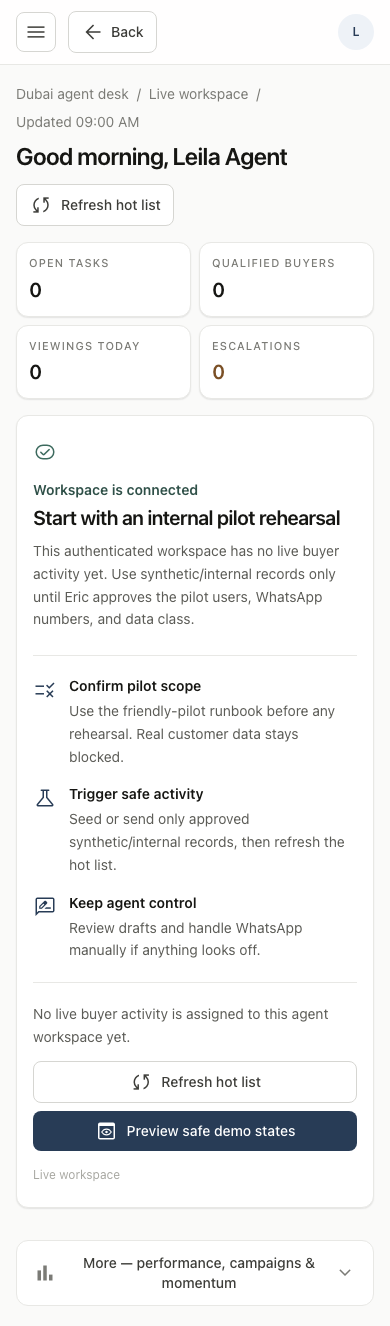
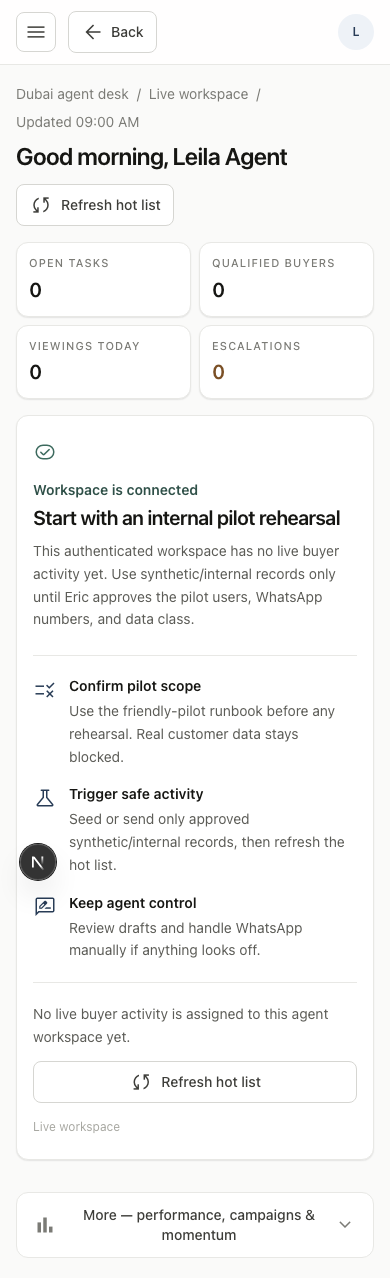
fix(agent): gate first-run clear-day copy

diff --git a/frontend/src/components/agent-dashboard/DayIsClear.tsx b/frontend/src/components/agent-dashboard/DayIsClear.tsx
@@ -19,6 +19,8 @@ export function DayIsClear({
   refreshState,
   onRefreshHotList,
 }: DayIsClearProps) {
+  const showsFirstRunActivation = Boolean(emptyState)
+
   return (
     <section className="rounded-lg border border-neutral-200 bg-white px-4 py-6 shadow-card-sm sm:px-6 sm:py-8">
       <div className="flex flex-col gap-4 sm:flex-row sm:items-start">
@@ -26,32 +28,35 @@ export function DayIsClear({
         <div className="min-w-0 flex-1">
           <p className="text-sm font-semibold text-success-700">Workspace is connected</p>
           <h2 className="mt-1 text-xl font-semibold tracking-tight text-neutral-900">
-            Start with an internal pilot rehearsal
+            {showsFirstRunActivation ? 'Start with an internal pilot rehearsal' : 'Your day is clear'}
           </h2>
           <p className="mt-2 max-w-2xl text-sm leading-relaxed text-neutral-600">
-            {emptyState ? 'This authenticated workspace has no live buyer activity yet.' : 'Your day is clear.'}{' '}
-            Use synthetic/internal records only until Eric approves the pilot users, WhatsApp numbers, and data class.
+            {showsFirstRunActivation
+              ? 'This authenticated workspace has no live buyer activity yet. Use synthetic/internal records only until Eric approves the pilot users, WhatsApp numbers, and data class.'
+              : 'No urgent buyer replies, hot signals, drafts, viewings, or escalations are waiting right now.'}
           </p>
         </div>
       </div>
 
-      <div className="mt-6 grid gap-4 border-y border-neutral-200 py-5 md:grid-cols-3">
-        <FirstRunStep
-          icon="rule"
-          label="Confirm pilot scope"
-          detail="Use the friendly-pilot runbook before any rehearsal. Real customer data stays blocked."
-        />
-        <FirstRunStep
-          icon="science"
-          label="Trigger safe activity"
-          detail="Seed or send only approved synthetic/internal records, then refresh the hot list."
-        />
-        <FirstRunStep
-          icon="rate_review"
-          label="Keep agent control"
-          detail="Review drafts and handle WhatsApp manually if anything looks off."
-        />
-      </div>
+      {showsFirstRunActivation && (
+        <div className="mt-6 grid gap-4 border-y border-neutral-200 py-5 md:grid-cols-3">
+          <FirstRunStep
+            icon="rule"
+            label="Confirm pilot scope"
+            detail="Use the friendly-pilot runbook before any rehearsal. Real customer data stays blocked."
+          />
+          <FirstRunStep
+            icon="science"
+            label="Trigger safe activity"
+            detail="Seed or send only approved synthetic/internal records, then refresh the hot list."
+          />
+          <FirstRunStep
+            icon="rate_review"
+            label="Keep agent control"
+            detail="Review drafts and handle WhatsApp manually if anything looks off."
+          />
+        </div>
+      )}
 
       <div className="mt-5 flex flex-col gap-3 sm:flex-row sm:items-center sm:justify-between">
         <p className="text-sm leading-relaxed text-neutral-600">
@@ -72,13 +77,6 @@ export function DayIsClear({
             <span className="material-symbols-outlined text-[18px]" aria-hidden="true">sync</span>
             {refreshState === 'working' ? 'Refreshing' : 'Refresh hot list'}
           </button>
-          <a
-            href="/component-showcase"
-            className="inline-flex min-h-10 items-center justify-center gap-2 rounded-md bg-brand-700 px-3 py-2 text-sm font-medium text-white transition-colors hover:bg-brand-800"
-          >
-            <span className="material-symbols-outlined text-[18px]" aria-hidden="true">preview</span>
-            Preview safe demo states
-          </a>
         </div>
       </div>
       <p className="mt-4 text-xs text-neutral-400">{sourceLabel}</p>

diff --git a/.omo/evidence/task-12-pr66-follow-up.md b/.omo/evidence/task-12-pr66-follow-up.md
@@ -1,0 +1,52 @@
+# Task 12 PR #66 Follow-Up Evidence
+
+Date: 2026-06-23
+Branch: `codex/agent-first-run-activation`
+Starting head: `2803c3593c105fb11773a7297f7c0b03467f7239`
+
+## Fixed Blockers
+
+1. First-run/internal-pilot activation copy is gated to explicit dashboard API `empty_state`.
+   - Scenario: mocked authenticated `/agent` API returns `sample_data: false`, empty operational arrays, zero metrics, and `empty_state.reason = no_workspace_activity`.
+   - Invocation: `cd frontend && node scripts/verify-task-next-first-run-state.mjs`.
+   - Binary observable: 15 checks passed; empty workspace includes `Start with an internal pilot rehearsal`, `synthetic/internal records only`, `Refresh hot list`, no fake operational row leaks, and no `Preview safe demo states` or `/component-showcase` leak.
+   - Captured artifact: `.omo/evidence/task-12-first-run-state/functional-transcript.json`.
+
+2. Normal live zero-queue dashboard without API `empty_state` remains neutral.
+   - Scenario: mocked authenticated `/agent` API returns `sample_data: false`, empty operational arrays, zero metrics, and no `empty_state`.
+   - Invocation: `cd frontend && node scripts/verify-task-next-first-run-state.mjs`.
+   - Binary observable: 15 checks passed; live zero-queue body includes `Your day is clear` and neutral no-queue copy, while excluding `Start with an internal pilot rehearsal`, `synthetic/internal records only`, `Confirm pilot scope`, `data class`, `Preview safe demo states`, and fake operational row markers.
+   - Captured artifact: `.omo/evidence/task-12-first-run-state/functional-transcript.json`.
+
+3. Connection error still has retry/manual fallback.
+   - Scenario: mocked authenticated `/agent` dashboard API returns HTTP 503.
+   - Invocation: `cd frontend && node scripts/verify-task-next-first-run-state.mjs`.
+   - Binary observable: 15 checks passed; error body includes `Retry`, `Manual fallback`, `Use WhatsApp directly`, and zero fake operational row leaks.
+   - Captured artifact: `.omo/evidence/task-12-first-run-state/functional-transcript.json`.
+
+4. Visual empty-state QA remains clean after removing the demo CTA.
+   - Scenario: mocked authenticated first-run empty workspace rendered at 1280x900 and 390x900.
+   - Invocation: `cd frontend && node scripts/verify-task-next-first-run-visual.mjs --desktop ../.omo/evidence/task-12-first-run-desktop.png --mobile ../.omo/evidence/task-12-first-run-mobile.png`.
+   - Binary observable: 6 checks passed; both viewports have zero fake operational row leaks, no horizontal overflow, and no fake-operational demo preview link.
+   - Captured artifacts: `.omo/evidence/task-12-first-run-desktop.png`, `.omo/evidence/task-12-first-run-mobile.png`, `.omo/evidence/task-12-first-run-state/visual-transcript.json`.
+
+5. Static and backend safety checks passed.
+   - Scenario: frontend typecheck.
+   - Invocation: `cd frontend && npx --no-install tsc --noEmit`.
+   - Binary observable: exited 0.
+   - Captured artifact: Codex command transcript.
+   - Scenario: backend empty-state contract regression.
+   - Invocation: `python3 tests/test_agent_dashboard_empty_state.py`.
+   - Binary observable: exited 0.
+   - Captured artifact: Codex command transcript.
+   - Scenario: whitespace and conflict-marker safety.
+   - Invocation: `git diff --check`; `rg -n "<<<<<<<|=======|>>>>>>>" <changed Task 12 paths>`.
+   - Binary observable: `git diff --check` exited 0; conflict-marker scan exited 1 with no matches.
+   - Captured artifact: Codex command transcript.
+
+## Safety
+
+- No fake authenticated live buyer, offer, task, queue, phone, amount, or escalation rows were added.
+- No owner dashboard expansion, API contract change, Task 13 work, dependency/lockfile edit, migration, RLS/role/grant change, live write, external DB test, or production/staging env-file read occurred.
+- `cd frontend && npm run build` was not run because `frontend/.env.local` exists and the env-file guard marks that path blocked.
+- PR body was updated to remove the stale internal demo-state preview claim.

diff --git a/.omo/evidence/task-12-dalya-next-mvp-readiness-plan.md b/.omo/evidence/task-12-dalya-next-mvp-readiness-plan.md
@@ -7,7 +7,8 @@ Tracking: `.omo/evidence/task-12-tracking-dalya-next-mvp-readiness-plan.json`
 ## Scope
 
 - Improved authenticated `/agent` empty workspace UI without adding live sample buyer, offer, queue, phone, amount, task, or escalation rows.
-- Added safe first-run guidance for synthetic/internal pilot rehearsal, visible `Refresh hot list`, and an explicit internal demo-state preview link.
+- Added safe first-run guidance for synthetic/internal pilot rehearsal and visible `Refresh hot list` for explicit API empty states, without linking to fake operational demo rows.
+- Preserved a neutral clear-day state for live zero-queue dashboards that do not include API `empty_state`.
 - Added connection error manual fallback guidance: retry the dashboard API or use WhatsApp directly until the workspace reconnects.
 - Updated the focused backend empty-state test harness import stubs only; the authenticated dashboard API empty-state contract was not changed.
 
@@ -16,28 +17,34 @@ Tracking: `.omo/evidence/task-12-tracking-dalya-next-mvp-readiness-plan.json`
 1. Empty authenticated workspace contains no fake buyer records but gives a clear safe next step.
    - Scenario: mocked authenticated `/agent` API returns `sample_data: false`, empty arrays, zero metrics, and `empty_state.reason = no_workspace_activity`.
    - Invocation: `cd frontend && node scripts/verify-task-next-first-run-state.mjs`.
-   - Binary observable: 11 checks passed; verifier asserts `Start with an internal pilot rehearsal`, `synthetic/internal records only`, `Preview safe demo states`, `Refresh hot list`, and zero `fakeOperationalTexts` leaks.
+   - Binary observable: 15 checks passed; verifier asserts `Start with an internal pilot rehearsal`, `synthetic/internal records only`, `Refresh hot list`, no `Preview safe demo states` or `/component-showcase` leak, and zero `fakeOperationalTexts` leaks.
    - Captured artifact: `.omo/evidence/task-12-first-run-state/functional-transcript.json`.
 
-2. RED proof captured the prior weak first-run/error state.
+2. Normal live zero-queue dashboard stays neutral without first-run/internal-pilot copy.
+   - Scenario: mocked authenticated `/agent` API returns `sample_data: false`, empty arrays, zero metrics, and no `empty_state`.
+   - Invocation: `cd frontend && node scripts/verify-task-next-first-run-state.mjs`.
+   - Binary observable: verifier asserts `Your day is clear`, neutral no-queue explanation, no `Start with an internal pilot rehearsal`, no `synthetic/internal records only`, no `Confirm pilot scope`, no `data class`, no `Preview safe demo states`, and zero `fakeOperationalTexts` leaks.
+   - Captured artifact: `.omo/evidence/task-12-first-run-state/functional-transcript.json`.
+
+3. RED proof captured the prior weak first-run/error state.
    - Scenario: same mocked authenticated empty/error workspace before UI changes.
    - Invocation: `cd frontend && node scripts/verify-task-next-first-run-state.mjs --red`.
    - Binary observable: 3 RED checks passed by proving the old empty workspace lacked internal-pilot activation/demo action and the old error state lacked a named manual fallback.
    - Captured artifact: `.omo/evidence/task-12-first-run-state/functional-red-transcript.json`.
 
-3. Connection error state gives retry/manual fallback.
+4. Connection error state gives retry/manual fallback.
    - Scenario: authenticated `/agent` dashboard API mocked as HTTP 503.
    - Invocation: `cd frontend && node scripts/verify-task-next-first-run-state.mjs`.
    - Binary observable: verifier asserts `Retry`, `Manual fallback`, `Use WhatsApp directly`, and zero fake operational row leaks.
    - Captured artifact: `.omo/evidence/task-12-first-run-state/functional-transcript.json`.
 
-4. Visual QA confirms mobile/desktop layout without text overlap.
+5. Visual QA confirms mobile/desktop layout without text overlap.
    - Scenario: authenticated empty workspace rendered at 1280x900 and 390x900.
    - Invocation: `cd frontend && node scripts/verify-task-next-first-run-visual.mjs --desktop ../.omo/evidence/task-12-first-run-desktop.png --mobile ../.omo/evidence/task-12-first-run-mobile.png`.
-   - Binary observable: 6 visual verifier checks passed; each viewport asserted zero fake operational row leaks, no horizontal overflow, and visible safe demo action.
+   - Binary observable: 6 visual verifier checks passed; each viewport asserted zero fake operational row leaks, no horizontal overflow, and no fake-operational demo preview link.
    - Captured artifacts: `.omo/evidence/task-12-first-run-desktop.png`, `.omo/evidence/task-12-first-run-mobile.png`, `.omo/evidence/task-12-first-run-state/visual-transcript.json`.
 
-5. Authenticated dashboard empty-state API contract remains stable.
+6. Authenticated dashboard empty-state API contract remains stable.
    - Scenario: no-DB focused backend test stubs all dashboard sources as empty.
    - Invocation: `python3 tests/test_agent_dashboard_empty_state.py`.
    - Binary observable: exited 0; asserts `sample_data is False`, zero metrics, all operational arrays empty, and no forbidden sample markers in the payload text.

diff --git a/BACKLOG.md b/BACKLOG.md
@@ -155,7 +155,7 @@ Spec/docs only — **no runtime code changed**, safe parallel work while DAL-172
 - [x] **Task 9B: Add bounded DealReadiness ranking input.** Hot-list scoring now applies a bounded DealReadiness input only for strongly actionable hot/viewing-ready/offer-ready profiles with budget and financing resolved. Existing urgency remains the base score, missing or malformed readiness fields add no boost, and viewing/offer-ready buyers can outrank merely recent low-readiness buyers. The readiness metadata contract deliberately moved from `shadow_read_only` to `ranking_input` with `base_urgency_score`, `ranking_delta`, `ranked_urgency_score`, and `ranking_reason`; it remains out of thresholds, task creation, drafts, notifications, and sends. Local-only tracking was used via `.omo/evidence/task-9b-tracking-dalya-next-mvp-readiness-plan.json`. Verification: focused Task 9B pytest, DAL-173C6/173B regressions, `py_compile`, `git diff --check`, and conflict-marker scan. No production/staging DDL, migrations, RLS, env-file reads, external DB tests, live writes, dependency/lockfile edits, task spam, autonomous sends, merge, or Task 10 work occurred.
 - [x] **Task 10: Make needs_reply intent and priority aware.** `/api/v1/agent/dashboard` now classifies the latest buyer message with the existing rule-based intent path plus deterministic acknowledgement/process-question rules, emits `needs_reply_intent`, `needs_reply_priority`, and `needs_reply_priority_score`, and ranks high-intent viewing, offer, document, and process questions above polite acknowledgements. Open escalations suppress duplicate low-priority needs-reply urgency only when the represented latest buyer message is low-intent; a new concrete buyer question after the thread remains actionable. Today Queue keeps the server priority as its display-order tiebreaker. Local-only tracking was used via `.omo/evidence/task-10-tracking-dalya-next-mvp-readiness-plan.json`. Verification: `py_compile`, frontend priority verifier, `npx tsc --noEmit`, `git diff --check`, and conflict-marker scan. Focused pytest/runtime regression is blocked locally because system Python lacks `pytest`, the repo venv Python symlink is broken, full pinned install fails on `pymupdf==1.24.0`, the Python 3.14-compatible subset fails on pinned `pydantic-core==2.23.2`, and no Python 3.12/3.13 binary is available. No broad LLM dependency, hidden true unanswered buyer questions, cross-tenant visibility change, production/staging DDL, migrations, RLS, env-file reads, external DB tests, live writes, dependency/lockfile edits, merge, or Task 11 work occurred.
 - [x] **Task 11: Upgrade handoff summaries and exact action cards.** Today Queue rows and escalation inbox rows now show structured 15-second handoff cards with buyer intent, known readiness fields, missing blockers, one suggested action, exact work surface route, and source. Generic queue `Open` links were replaced with concrete action text derived from the same handoff summary. Offer-intent rows explicitly stay agent review/counter guidance only, with no autonomous negotiation or new send behavior. Local-only tracking was used via `.omo/evidence/task-11-tracking-dalya-next-mvp-readiness-plan.json`. Verification: rendered frontend handoff verifier, visual screenshot `.omo/evidence/task-11-handoff-cards.png`, `npx tsc --noEmit`, backend assist regression, `git diff --check`, and conflict-marker scan. `npm run build` was not rerun after the follow-up because `frontend/.env.local` exists and the env-file guard treats that build path as blocked. No auth/tenant visibility change, production/staging DDL, migrations, RLS, env-file reads, external DB tests, live writes, dependency/lockfile edits, autonomous send, autonomous negotiation, merge, or Task 12 work occurred.
-- [x] **Task 12: Add first-run activation and stronger empty/error states.** Authenticated empty `/agent` workspaces now show a first-run activation path for approved synthetic/internal pilot rehearsal, keep `Refresh hot list` visible, and link only to an explicit internal demo-state preview instead of rendering fake buyer rows. Dashboard connection failures now include retry plus a manual WhatsApp fallback note. Local-only tracking was used via `.omo/evidence/task-12-tracking-dalya-next-mvp-readiness-plan.json`. Verification: RED/GREEN first-run browser verifier, desktop and mobile screenshots `.omo/evidence/task-12-first-run-desktop.png` and `.omo/evidence/task-12-first-run-mobile.png`, `npx --no-install tsc --noEmit`, `python3 tests/test_agent_dashboard_empty_state.py`, `git diff --check`, and conflict-marker scan. `npm run build` was not run because `frontend/.env.local` exists and the env-file guard treats that build path as blocked. No fake live operational rows, owner dashboard expansion, authenticated dashboard API contract change, production/staging env-file read, external DB test, live write, dependency/lockfile edit, or Task 13 work occurred.
+- [x] **Task 12: Add first-run activation and stronger empty/error states.** Authenticated empty `/agent` workspaces now show a first-run activation path for approved synthetic/internal pilot rehearsal and keep `Refresh hot list` visible without linking to fake operational demo rows; normal live zero-queue dashboards without API `empty_state` remain a neutral clear-day state. Dashboard connection failures now include retry plus a manual WhatsApp fallback note. Local-only tracking was used via `.omo/evidence/task-12-tracking-dalya-next-mvp-readiness-plan.json`. Verification: RED/GREEN first-run browser verifier with live zero-queue coverage, desktop and mobile screenshots `.omo/evidence/task-12-first-run-desktop.png` and `.omo/evidence/task-12-first-run-mobile.png`, `npx --no-install tsc --noEmit`, `python3 tests/test_agent_dashboard_empty_state.py`, `git diff --check`, and conflict-marker scan. `npm run build` was not run because `frontend/.env.local` exists and the env-file guard treats that build path as blocked. No fake live operational rows, owner dashboard expansion, authenticated dashboard API contract change, production/staging env-file read, external DB test, live write, dependency/lockfile edit, or Task 13 work occurred.
 - [ ] **DAL-193: LazyCodex harness trial for re-review follow-ups.** Installed `omo@sisyphuslabs` / LazyCodex into Codex and selected `DAL-194` as the first bounded trial task. Codex plugin listing shows `omo@sisyphuslabs` installed/enabled. `lazycodex-ai doctor` currently routes through an OpenCode doctor path and reports OpenCode-specific missing-binary/config/cache warnings, so plugin install is verified via Codex plugin listing rather than a green doctor check.
 
 ### Verified Facts — later implementation tickets (do not start during DAL-172A without Eric's approval)